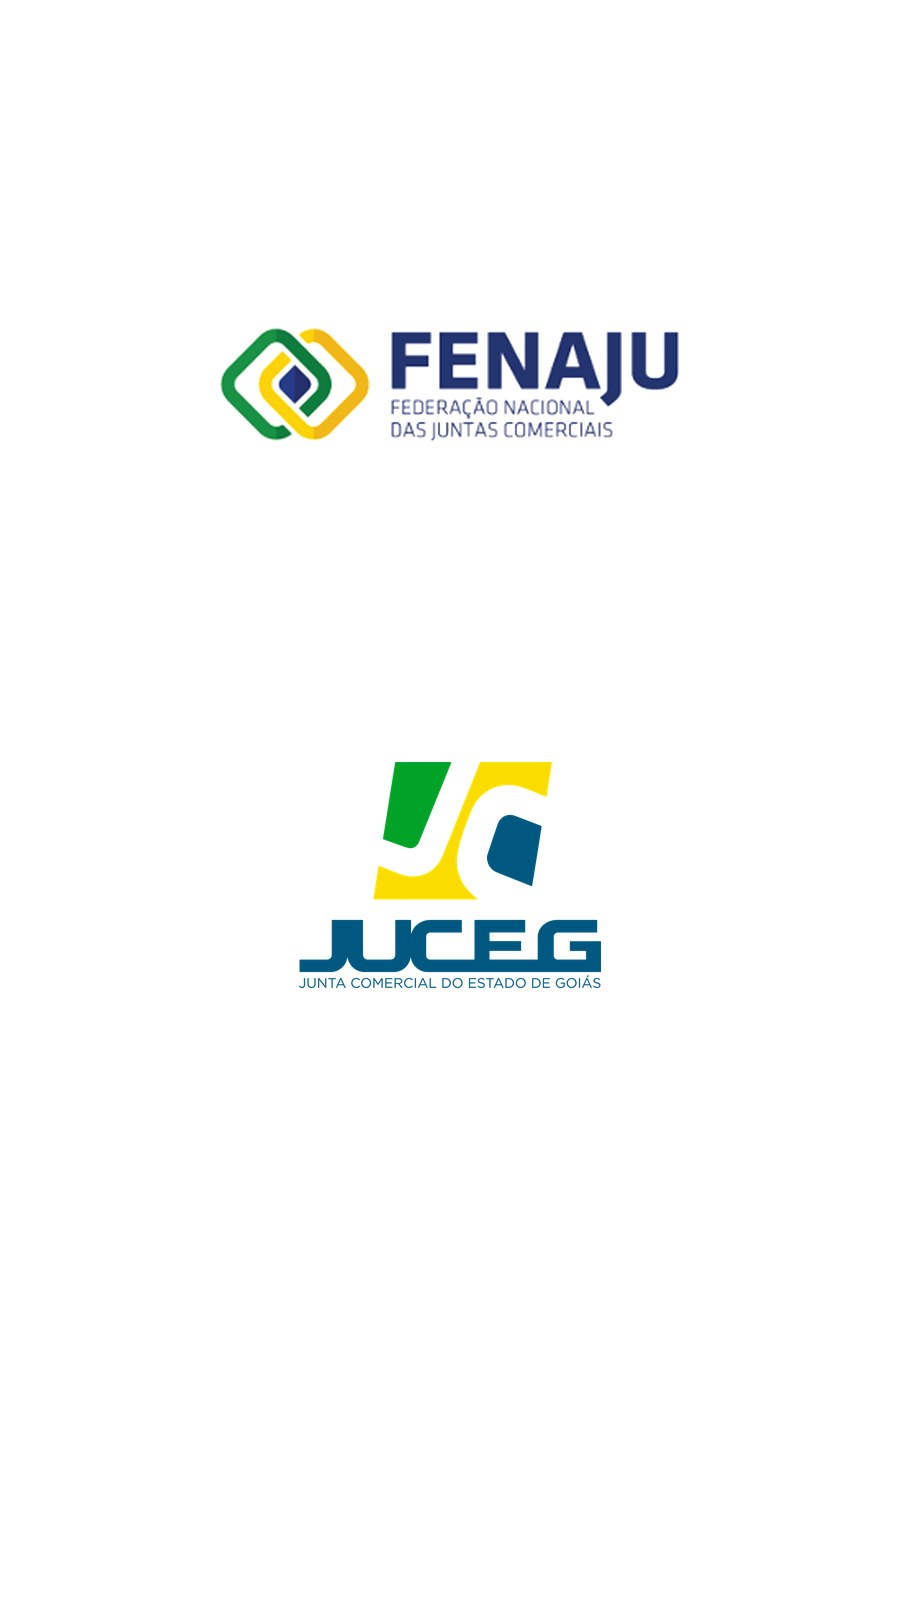
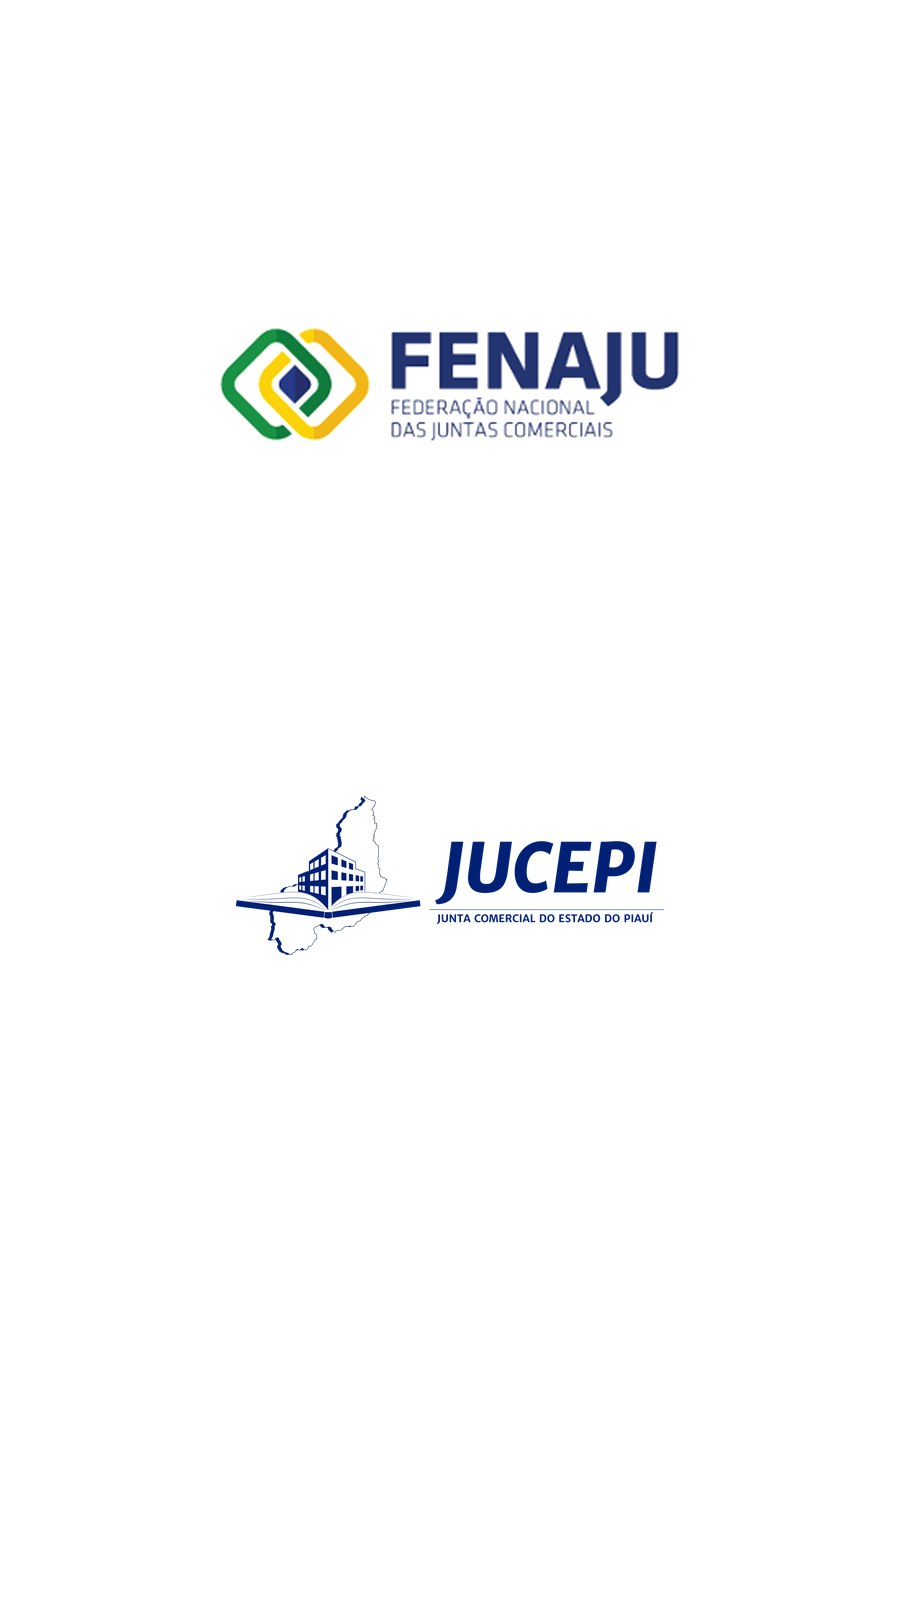
feat: realização do ENAJ 2026 com FENAJU e JUCEPI
Troca a logo da JUCEG pela da JUCEPI no slide "Realização" do
carrossel e nos hexágonos de realização.

Changed region(s): [[0.28, 0.4688, 0.7467, 0.625]]

diff --git a/enaj-2026/index.html b/enaj-2026/index.html
@@ -109,7 +109,7 @@
                             <div class="relative flex min-h-[480px] flex-col items-start justify-end overflow-hidden rounded-xl px-14 py-10 pb-14 md:px-16">
                                 <picture>
                                     <source media="(max-width: 768px)" srcset="assets/img/carrossel/realizacao-mobile.jpg">
-                                    <img src="assets/img/carrossel/realizacao.jpg" alt="Realização: FENAJU e JUCEG" class="absolute inset-0 h-full w-full object-cover">
+                                    <img src="assets/img/carrossel/realizacao.jpg" alt="Realização: FENAJU e JUCEPI" class="absolute inset-0 h-full w-full object-cover">
                                 </picture>
                                 <div class="absolute inset-0 bg-gradient-to-b from-black/40 to-black/50"></div>
                                 <h2 class="relative text-3xl font-black leading-tight tracking-[-0.033em] text-white sm:text-5xl">Realização</h2>
@@ -417,8 +417,8 @@
                                             src="assets/logos/fenaju.png" />
                                     </div>
 
-                                    <div class="hexagon-item-realizacao"><img alt="Logo JUCEG" class="hexagon-logo"
-                                            src="assets/logos/juceg.png" />
+                                    <div class="hexagon-item-realizacao"><img alt="Logo JUCEPI" class="hexagon-logo"
+                                            src="assets/logos/jucepi.png" />
                                     </div>
 
                                 </div>

diff --git a/ferramentas/gerar_slides_apoiadores.py b/ferramentas/gerar_slides_apoiadores.py
@@ -25,7 +25,7 @@ PASTA_SAIDA = RAIZ / "enaj-2026" / "assets" / "img" / "carrossel"
 
 # nome do arquivo de saída -> logos do slide (arquivos em assets/logos)
 SLIDES = {
-    "realizacao": ["fenaju.png", "juceg.png"],
+    "realizacao": ["fenaju.png", "jucepi-horizontal.png"],
     "apoiadores-1": ["vox.webp", "logo_regin_tributos.png", "grupoA2.png"],
     "apoiadores-2": ["nuclea.png", "nic.png", "altura.png"],
     "apoiadores-3": ["logor2da-escura.svg", "lcm.png", "contabilizei.svg"],
